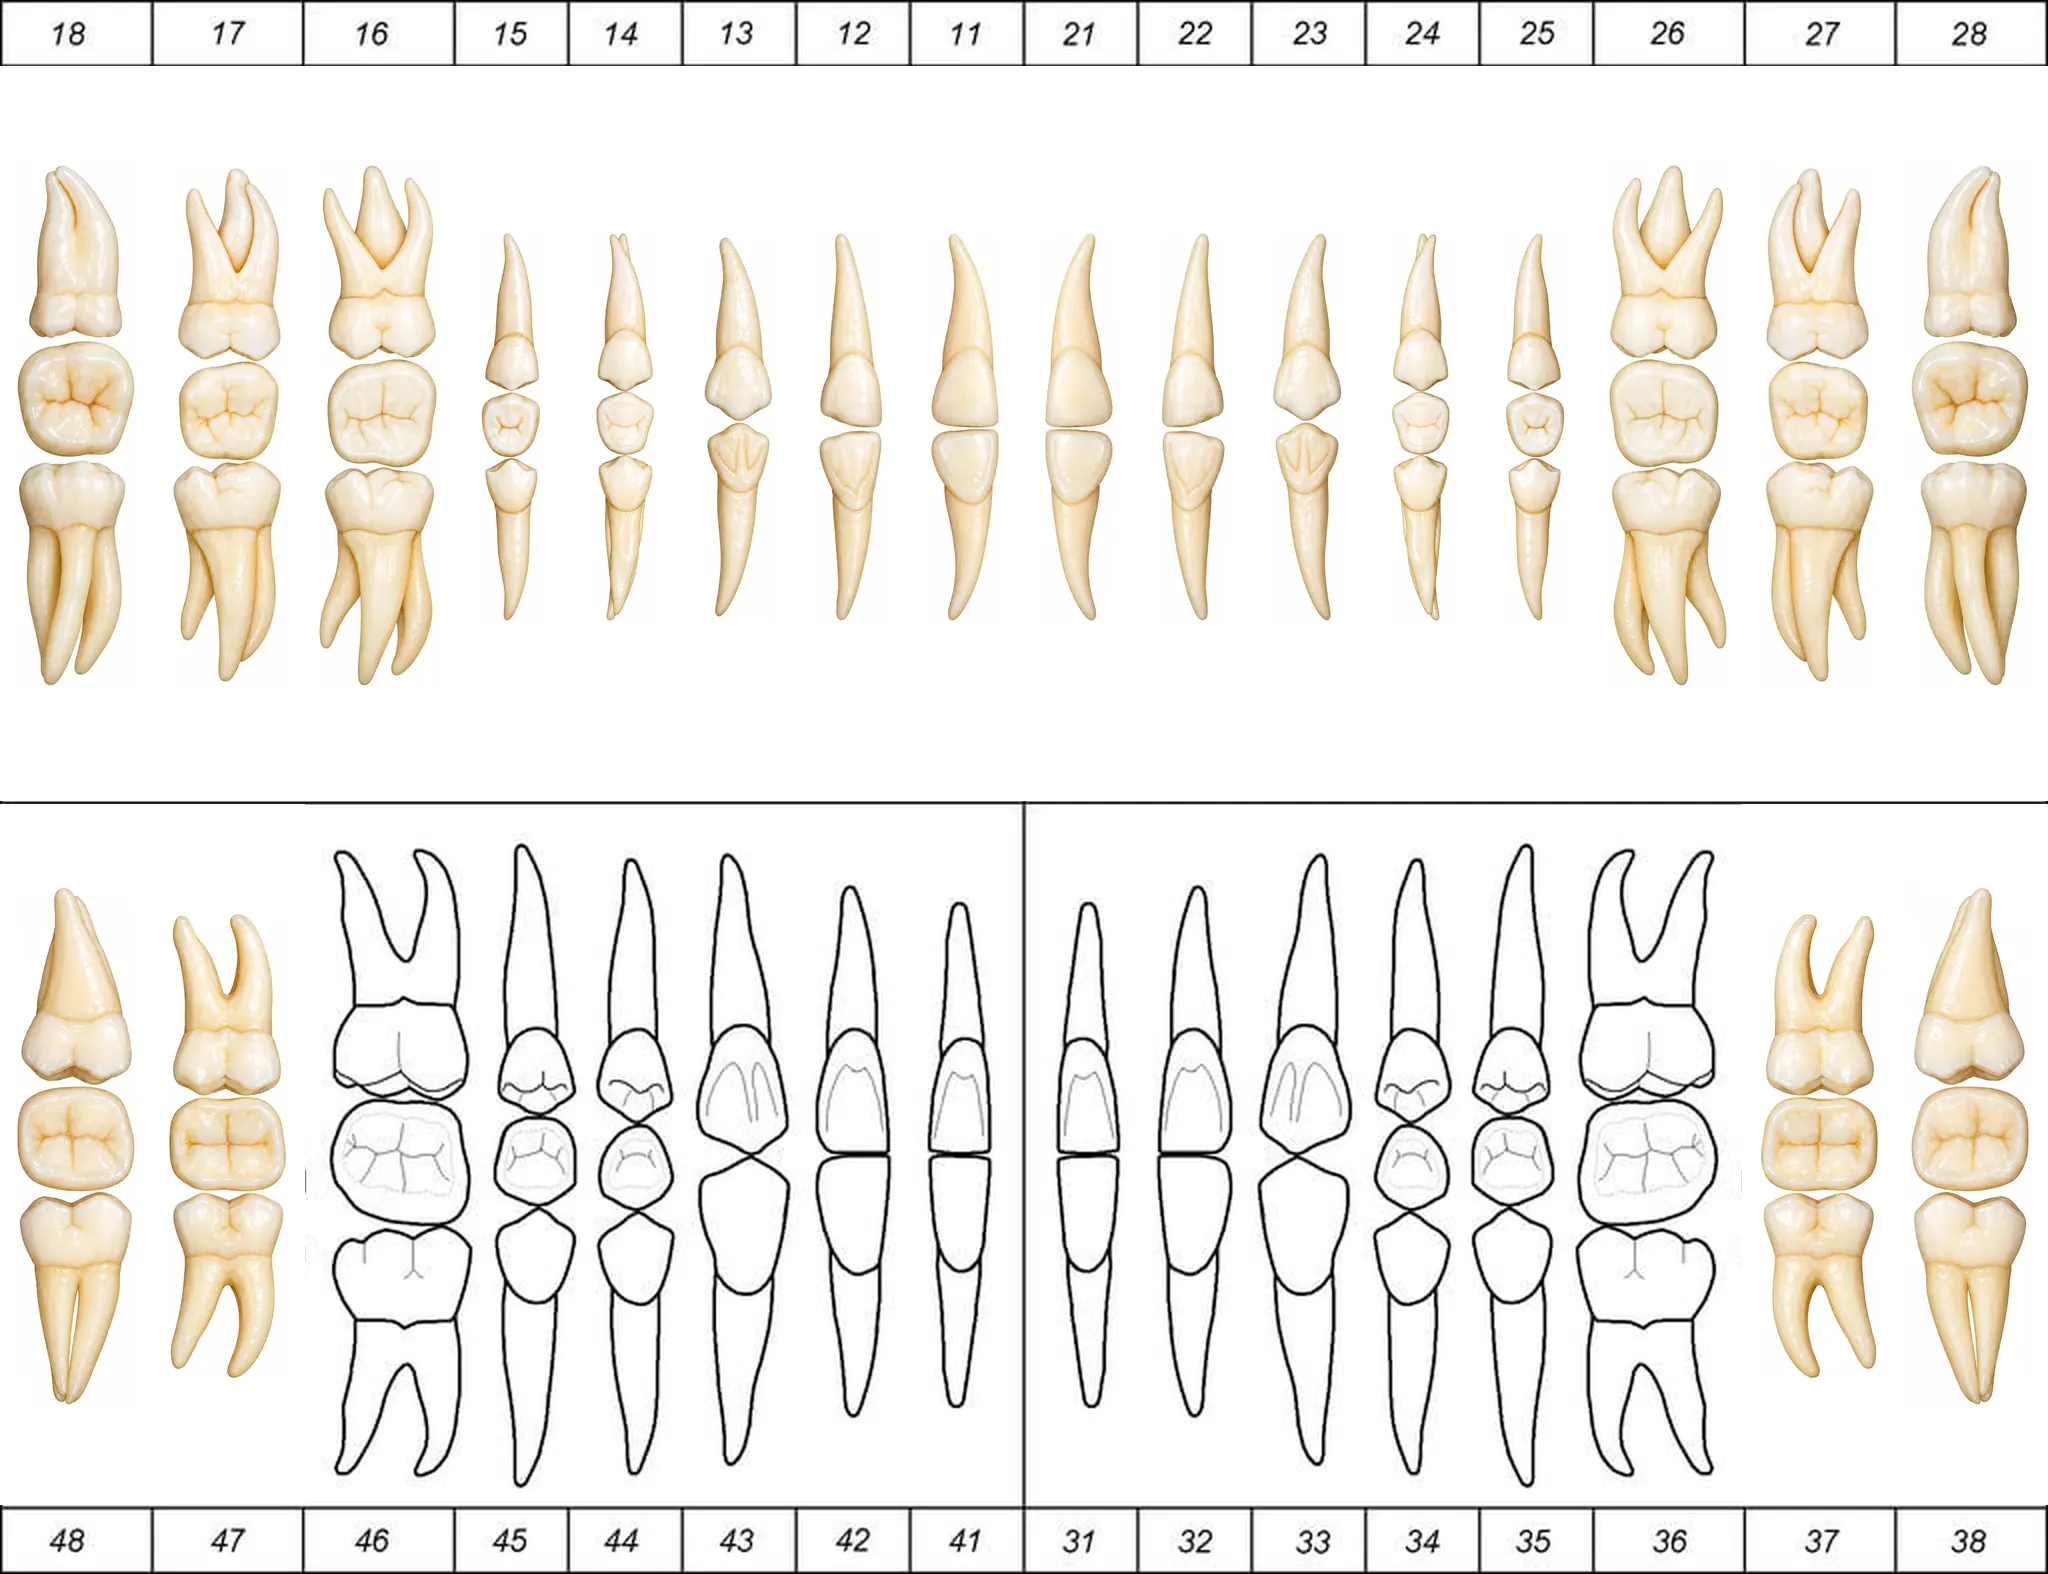
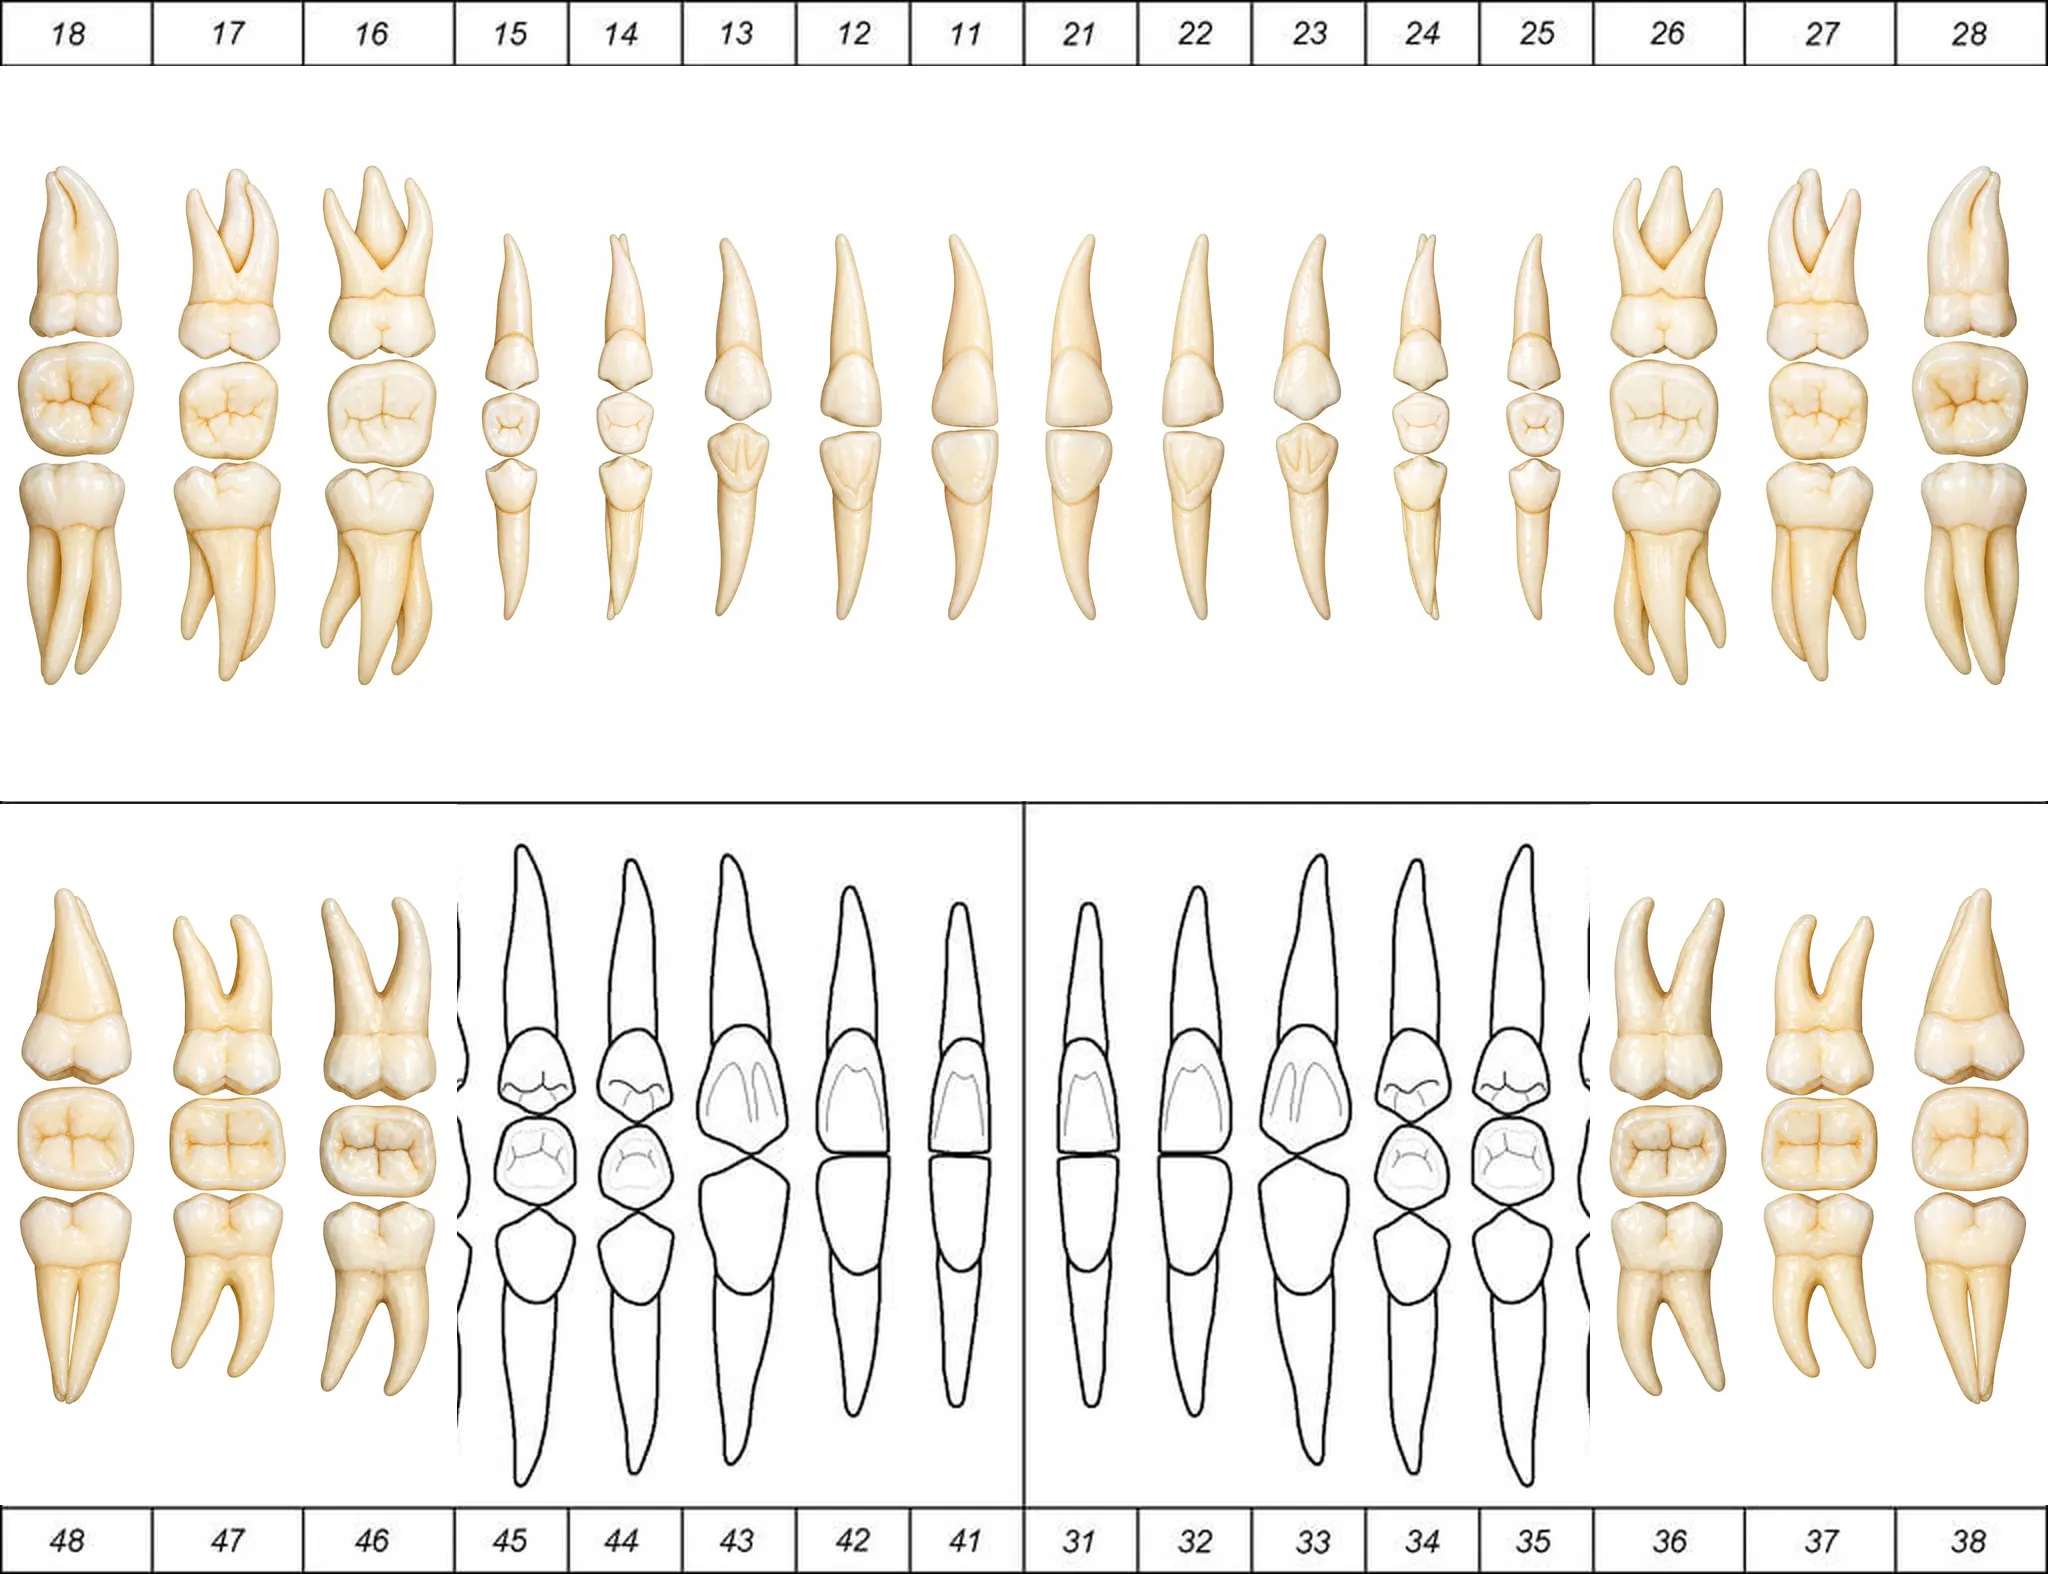
Odontograma: dientes 46 y 36 realistas
Claude-Session: https://claude.ai/code/session_01FW31h1zo6p8vQyvT2eeDKx

Changed region(s): [[0.7812, 0.5292, 0.8438, 0.9339], [0.1562, 0.5292, 0.2188, 0.9339]]

diff --git a/components/OdontogramaDibujo.tsx b/components/OdontogramaDibujo.tsx
@@ -54,7 +54,7 @@ const CARTA_URL = `/odontograma-carta-v2.webp?v=${ODONTOGRAMA_VERSION}`;
 
 // Dientes con ilustración realista propia (public/dientes/N.webp) que
 // sustituye al dibujo de línea de la carta en su columna.
-const DIENTES_REALISTAS = new Set<number>([18, 17, 16, 15, 14, 13, 12, 11, 21, 22, 23, 24, 25, 26, 27, 28, 48, 38, 47, 37]);
+const DIENTES_REALISTAS = new Set<number>([18, 17, 16, 15, 14, 13, 12, 11, 21, 22, 23, 24, 25, 26, 27, 28, 48, 38, 47, 37, 46, 36]);
 
 // Lienzo propio de un diente realista en pantalla completa: las marcas
 // de ese diente se guardan en estas coordenadas (con d = número) y en

diff --git a/lib/odontograma-version.ts b/lib/odontograma-version.ts
@@ -1,2 +1,2 @@
 // Generado por scripts/componer-carta.py — no editar a mano.
-export const ODONTOGRAMA_VERSION = "ccdc59629e";
+export const ODONTOGRAMA_VERSION = "fd818fc3c1";
